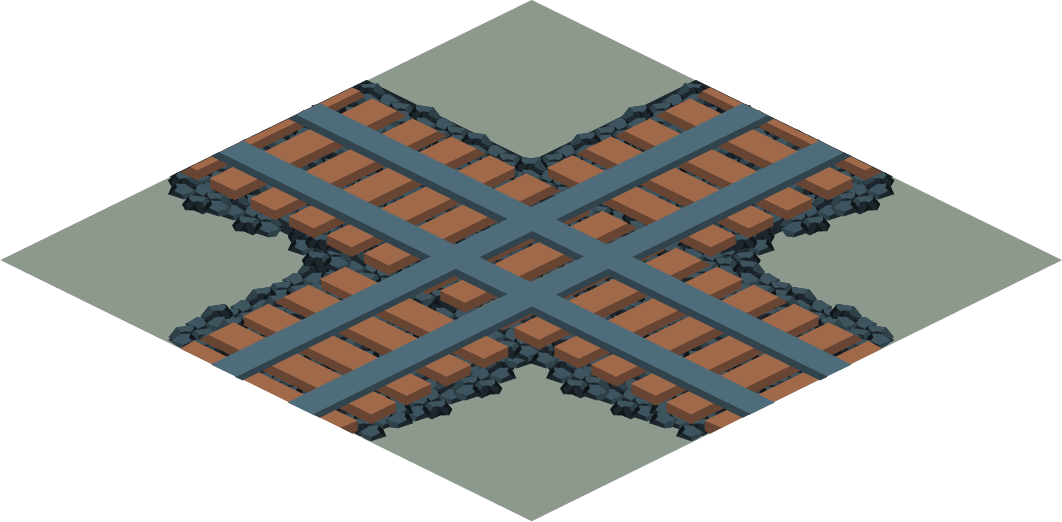
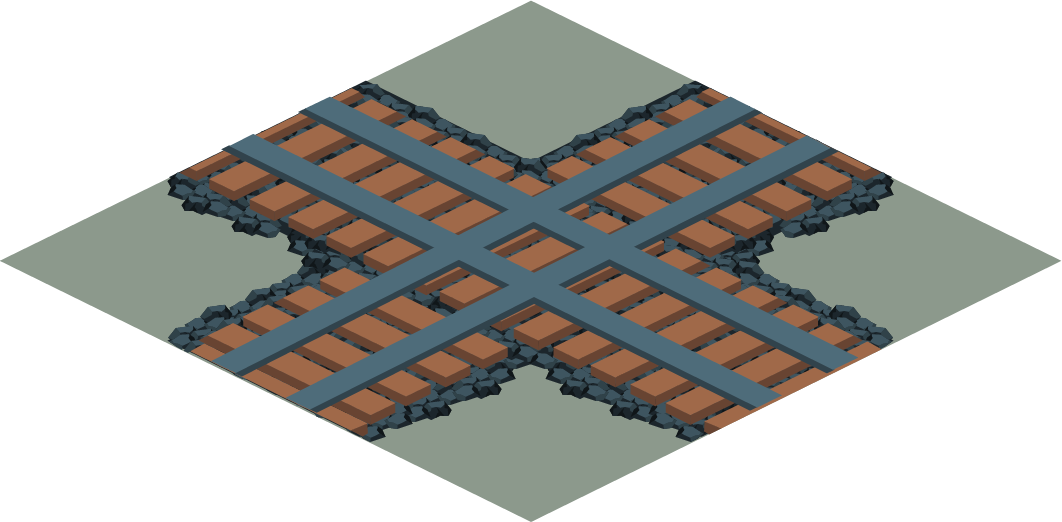
restliche Rail-Tiles hinzugefügt

diff --git a/src/view/ObjectToImageMapping.java b/src/view/ObjectToImageMapping.java
@@ -46,6 +46,10 @@ public class ObjectToImageMapping {
         // Flache Rails (unvollständig)
         mapping.put("rail-ne-sw", "rail/rail-ne-sw");
         mapping.put("rail-nw-se", "rail/rail-nw-se");
+        mapping.put("rail-ne-se", "rail/rail-ne-se");
+        mapping.put("rail-nw-sw", "rail/rail-nw-sw");
+        mapping.put("rail-ne-nw", "rail/rail-ne-nw");
+        mapping.put("rail-sw-se", "rail/rail-sw-se");
         mapping.put("railcurve-ne-s", "rail/railcurve-ne-s");
         mapping.put("railcurve-ne-w", "rail/railcurve-ne-w");
         mapping.put("railcurve-nw-e", "rail/railcurve-nw-e");
@@ -58,10 +62,16 @@ public class ObjectToImageMapping {
         mapping.put("railswitch-nw-s", "rail/railswitch-nw-s");
         mapping.put("railswitch-se-n", "rail/railswitch-se-n");
         mapping.put("railswitch-sw-n", "rail/railswitch-sw-n");
+        mapping.put("railswitch-ne-w", "rail/railswitch-ne-w");
+        mapping.put("railswitch-nw-e", "rail/railswitch-nw-e");
+        mapping.put("railswitch-se-w", "rail/railswitch-se-w");
+        mapping.put("railswitch-sw-e", "rail/railswitch-sw-e");
 
         mapping.put("railcrossing", "rail/railroadcrossing");
-        mapping.put("railsignal-ne-sw", "rail/rails_railsignal-ne-sw");
-        mapping.put("railsignal-nw-se", "rail/rails_railsignal-nw-se");
+//        mapping.put("railsignal-ne-sw", "rail/rails_railsignal-ne-sw");
+//        mapping.put("railsignal-nw-se", "rail/rails_railsignal-nw-se");
+        mapping.put("railsignal-ne-sw", "rail/railsignal-ne-sw");
+        mapping.put("railsignal-nw-se", "rail/railsignal-nw-se");
         mapping.put("railsignal", "rail/railsignal");
 
         // Verschiedenes
